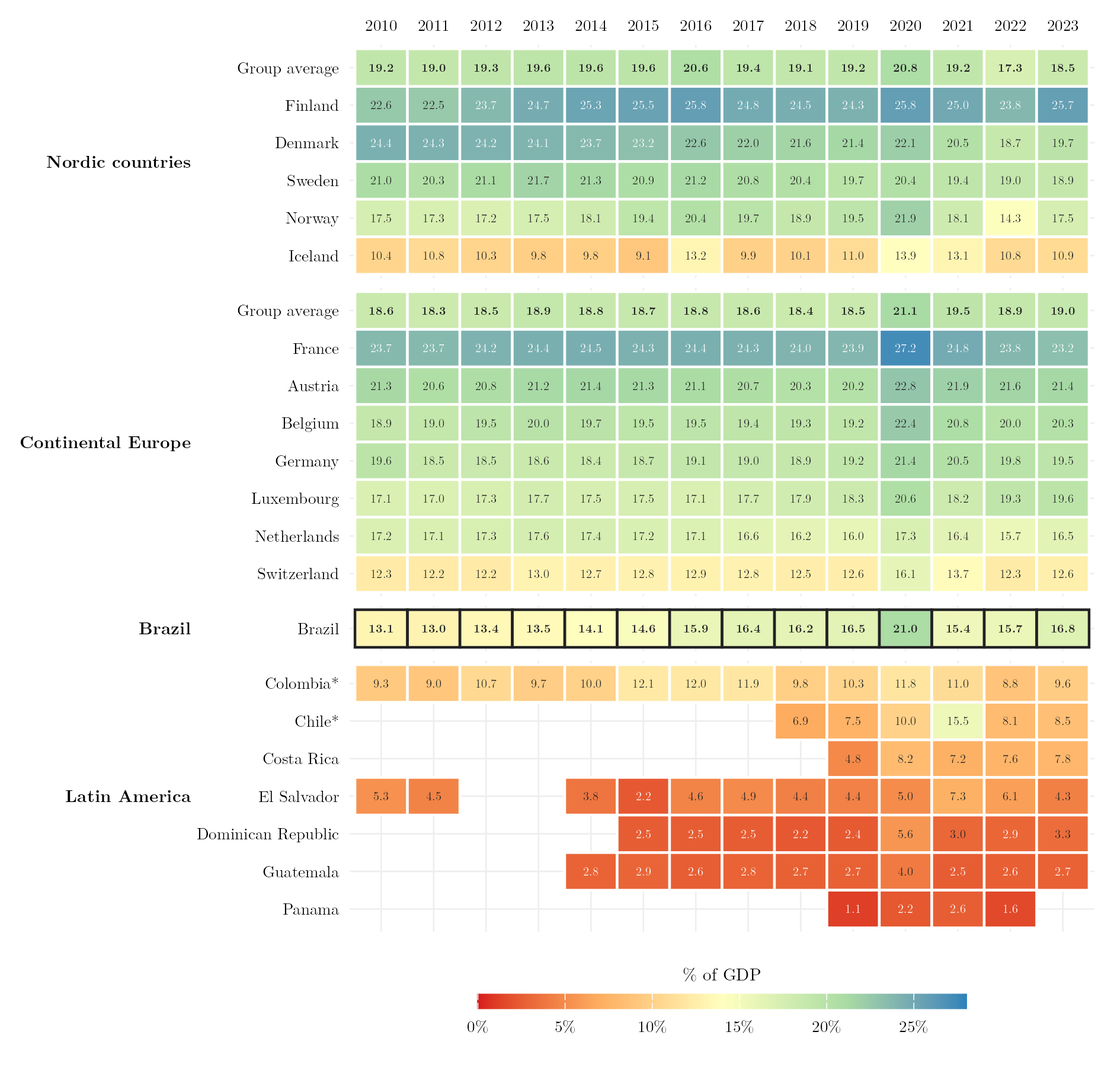
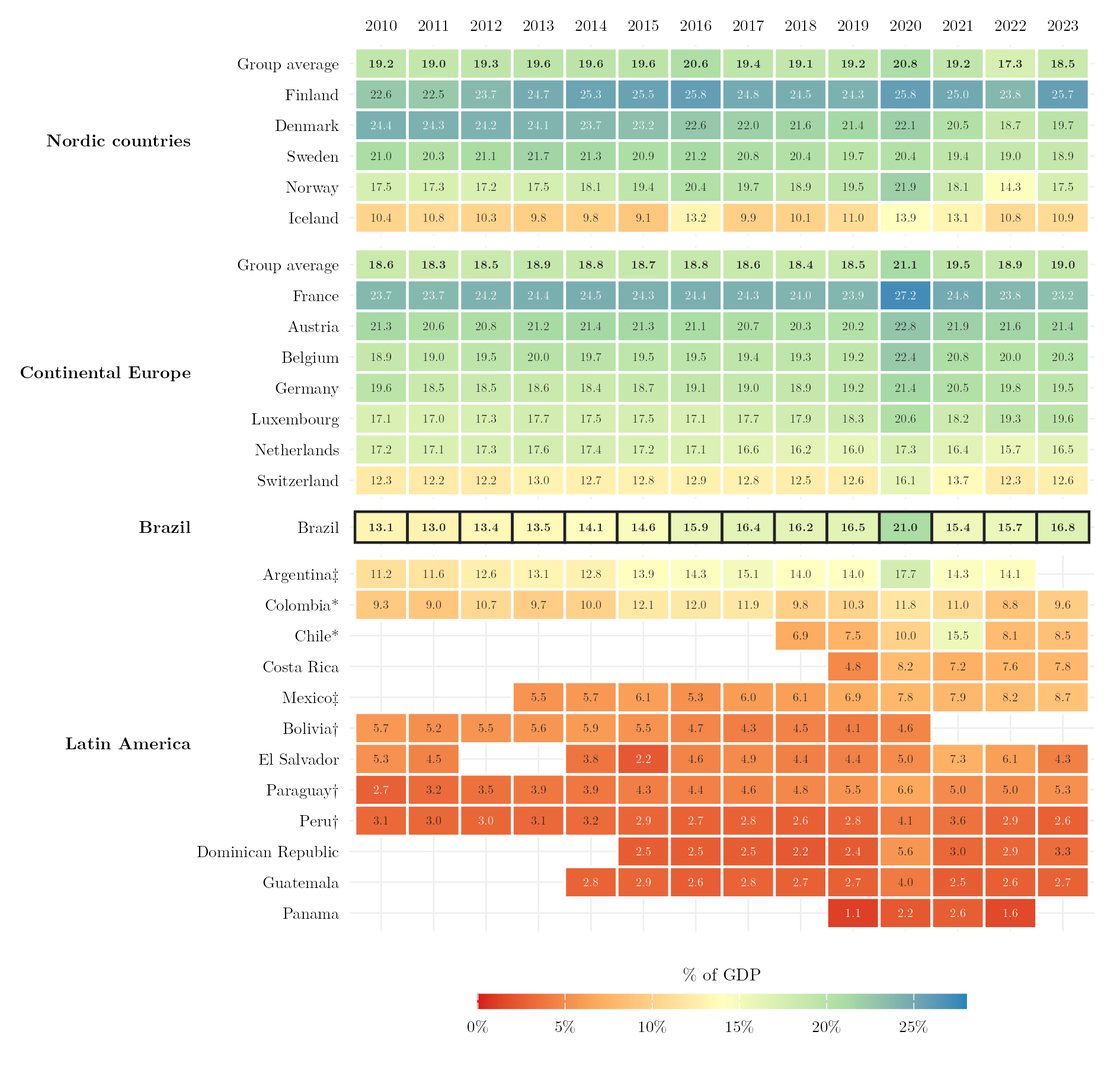
feat(cofog): completa a America Latina com a base de gasto social da CEPAL
Paraguai, Bolivia e Peru (governo geral) e Argentina e Mexico (setor
publico nao financeiro) nao tem a funcao 710 do governo geral no FMI nem
na OCDE. A CEPAL tem; o governo geral do Brasil nela coincide com o FMI.
A figura marca cada fonte e cobertura, e o post explica as diferencas.

Agent: Claude Code / Opus 5.5 / desktop

diff --git a/docs/index.html b/docs/index.html
@@ -176,7 +176,7 @@ window.Quarto = {
 <!-- margin-sidebar -->
     <div id="quarto-margin-sidebar" class="sidebar margin-sidebar">
         
-    <h5 class="quarto-listing-category-title">Categories</h5><div class="quarto-listing-category category-default"><div class="category" data-category="">All <span class="quarto-category-count">(43)</span></div><div class="category" data-category="QWNlc3Nv">Acesso <span class="quarto-category-count">(5)</span></div><div class="category" data-category="Q2FtcGFpZ24lMjBmaW5hbmNl">Campaign finance <span class="quarto-category-count">(1)</span></div><div class="category" data-category="Q2Vuc28=">Censo <span class="quarto-category-count">(1)</span></div><div class="category" data-category="Q2Vuc28lMjAyMDIy">Censo 2022 <span class="quarto-category-count">(1)</span></div><div class="category" data-category="Q0VOU1VQ">CENSUP <span class="quarto-category-count">(1)</span></div><div class="category" data-category="Q2Vuc3Vz">Census <span class="quarto-category-count">(1)</span></div><div class="category" data-category="Q29iZXJ0dXJhJTIwZGUlMjBGb250ZXM=">Cobertura de Fontes <span class="quarto-category-count">(1)</span></div><div class="category" data-category="Q09GT0c=">COFOG <span class="quarto-category-count">(1)</span></div><div class="category" data-category="Q29tcG9zaSVDMyVBNyVDMyVBM28lMjBwb3IlMjBEZWNpbA==">Composição por Decil <span class="quarto-category-count">(4)</span></div><div class="category" data-category="Q29uY2x1cyVDMyVBM28=">Conclusão <span class="quarto-category-count">(1)</span></div><div class="category" data-category="Q290YXM=">Cotas <span class="quarto-category-count">(3)</span></div><div class="category" data-category="RGF0YQ==">Data <span class="quarto-category-count">(1)</span></div><div class="category" data-category="RGVzaWd1YWxkYWRl">Desigualdade <span class="quarto-category-count">(4)</span></div><div class="category" data-category="RGlzdHJpYnVpJUMzJUE3JUMzJUEzbw==">Distribuição <span class="quarto-category-count">(2)</span></div><div class="category" data-category="RGlzdHJpYnV0aW9u">Distribution <span class="quarto-category-count">(1)</span></div><div class="category" data-category="RWFE">EaD <span class="quarto-category-count">(3)</span></div><div class="category" data-category="ZWR1Y2FicjI=">educabr2 <span class="quarto-category-count">(7)</span></div><div class="category" data-category="RWxlY3Rpb25z">Elections <span class="quarto-category-count">(2)</span></div><div class="category" data-category="RU5FTQ==">ENEM <span class="quarto-category-count">(7)</span></div><div class="category" data-category="RW5zaW5vJTIwTSVDMyVBOWRpbw==">Ensino Médio <span class="quarto-category-count">(2)</span></div><div class="category" data-category="RW5zaW5vJTIwU3VwZXJpb3I=">Ensino Superior <span class="quarto-category-count">(4)</span></div><div class="category" data-category="RXNjb2xhcmlkYWRl">Escolaridade <span class="quarto-category-count">(1)</span></div><div class="category" data-category="RXhwYW5zJUMzJUEzbyUyMEhpc3QlQzMlQjNyaWNh">Expansão Histórica <span class="quarto-category-count">(1)</span></div><div class="category" data-category="RklFUw==">FIES <span class="quarto-category-count">(3)</span></div><div class="category" data-category="Rm9udGVzJTIwZGUlMjBEYWRv">Fontes de Dado <span class="quarto-category-count">(1)</span></div><div class="category" data-category="R2FzdG8lMjBQJUMzJUJBYmxpY28=">Gasto Público <span class="quarto-category-count">(1)</span></div><div class="category" data-category="R2luaQ==">Gini <span class="quarto-category-count">(1)</span></div><div class="category" data-category="R292ZXJubw==">Governo <span class="quarto-category-count">(3)</span></div><div class="category" data-category="SGFybW9uaXphdGlvbg==">Harmonization <span class="quarto-category-count">(1)</span></div><div class="category" data-category="SU1G">IMF <span class="quarto-category-count">(1)</span></div><div class="category" data-category="SW5jb21l">Income <span class="quarto-category-count">(1)</span></div><div class="category" data-category="SVBDQQ==">IPCA <span class="quarto-category-count">(3)</span></div><div class="category" data-category="TWFwYXM=">Mapas <span class="quarto-category-count">(1)</span></div><div class="category" data-category="TWF0ciVDMyVBRGN1bGFz">Matrículas <span class="quarto-category-count">(5)</span></div><div class="category" data-category="TWVuc2FsaWRhZGVz">Mensalidades <span class="quarto-category-count">(3)</span></div><div class="category" data-category="TWV0aG9kb2xvZ3k=">Methodology <span class="quarto-category-count">(1)</span></div><div class="category" data-category="TW9kYWxpZGFkZQ==">Modalidade <span class="quarto-category-count">(2)</span></div><div class="category" data-category="T0VDRA==">OECD <span class="quarto-category-count">(1)</span></div><div class="category" data-category="UGFsbWE=">Palma <span class="quarto-category-count">(1)</span></div><div class="category" data-category="UE5BRA==">PNAD <span class="quarto-category-count">(1)</span></div><div class="category" data-category="UE5BRCUyRlBOQURD">PNAD/PNADC <span class="quarto-category-count">(21)</span></div><div class="category" data-category="UG9sJUMzJUFEdGljYXMlMjBQJUMzJUJBYmxpY2Fz">Políticas Públicas <span class="quarto-category-count">(2)</span></div><div class="category" data-category="UG9wdWxhJUMzJUE3JUMzJUEzbw==">População <span class="quarto-category-count">(1)</span></div><div class="category" data-category="UHJvZ3Jlc3MlQzMlQTNvJTIwRXNjb2xhcg==">Progressão Escolar <span class="quarto-category-count">(1)</span></div><div class="category" data-category="UHJvVW5p">ProUni <span class="quarto-category-count">(3)</span></div><div class="category" data-category="UmVkZSUyMFAlQzMlQkFibGljYSUyRlByaXZhZGE=">Rede Pública/Privada <span class="quarto-category-count">(2)</span></div><div class="category" data-category="UmVncmVzc2l2aWRhZGU=">Regressividade <span class="quarto-category-count">(1)</span></div><div class="category" data-category="UmVuZGE=">Renda <span class="quarto-category-count">(13)</span></div><div class="category" data-category="UmVwbGljYXRpb24=">Replication <span class="quarto-category-count">(2)</span></div><div class="category" data-category="UnVyYWw=">Rural <span class="quarto-category-count">(1)</span></div><div class="category" data-category="U2FsJUMzJUExcmlvJTIwTSVDMyVBRG5pbW8=">Salário Mínimo <span class="quarto-category-count">(1)</span></div><div class="category" data-category="U0VEQVAlMkI=">SEDAP+ <span class="quarto-category-count">(8)</span></div><div class="category" data-category="UyVDMyVBOXJpZSUyMEhpc3QlQzMlQjNyaWNh">Série Histórica <span class="quarto-category-count">(2)</span></div><div class="category" data-category="U2V4bw==">Sexo <span class="quarto-category-count">(1)</span></div><div class="category" data-category="U0lEUkE=">SIDRA <span class="quarto-category-count">(2)</span></div><div class="category" data-category="U29jaWFsJTIwcHJvdGVjdGlvbg==">Social protection <span class="quarto-category-count">(1)</span></div><div class="category" data-category="VFNF">TSE <span class="quarto-category-count">(1)</span></div><div class="category" data-category="VHVybm8=">Turno <span class="quarto-category-count">(1)</span></div><div class="category" data-category="VmlhJTIwZGUlMjBBY2Vzc28=">Via de Acesso <span class="quarto-category-count">(1)</span></div><div class="category" data-category="V2Fnc3RhZmY=">Wagstaff <span class="quarto-category-count">(3)</span></div><div class="category" data-category="V2VsZmFyZSUyMHN0YXRl">Welfare state <span class="quarto-category-count">(1)</span></div></div></div>
+    <h5 class="quarto-listing-category-title">Categories</h5><div class="quarto-listing-category category-default"><div class="category" data-category="">All <span class="quarto-category-count">(43)</span></div><div class="category" data-category="QWNlc3Nv">Acesso <span class="quarto-category-count">(5)</span></div><div class="category" data-category="Q2FtcGFpZ24lMjBmaW5hbmNl">Campaign finance <span class="quarto-category-count">(1)</span></div><div class="category" data-category="Q2Vuc28=">Censo <span class="quarto-category-count">(1)</span></div><div class="category" data-category="Q2Vuc28lMjAyMDIy">Censo 2022 <span class="quarto-category-count">(1)</span></div><div class="category" data-category="Q0VOU1VQ">CENSUP <span class="quarto-category-count">(1)</span></div><div class="category" data-category="Q2Vuc3Vz">Census <span class="quarto-category-count">(1)</span></div><div class="category" data-category="Q29iZXJ0dXJhJTIwZGUlMjBGb250ZXM=">Cobertura de Fontes <span class="quarto-category-count">(1)</span></div><div class="category" data-category="Q09GT0c=">COFOG <span class="quarto-category-count">(1)</span></div><div class="category" data-category="Q29tcG9zaSVDMyVBNyVDMyVBM28lMjBwb3IlMjBEZWNpbA==">Composição por Decil <span class="quarto-category-count">(4)</span></div><div class="category" data-category="Q29uY2x1cyVDMyVBM28=">Conclusão <span class="quarto-category-count">(1)</span></div><div class="category" data-category="Q290YXM=">Cotas <span class="quarto-category-count">(3)</span></div><div class="category" data-category="RGF0YQ==">Data <span class="quarto-category-count">(1)</span></div><div class="category" data-category="RGVzaWd1YWxkYWRl">Desigualdade <span class="quarto-category-count">(4)</span></div><div class="category" data-category="RGlzdHJpYnVpJUMzJUE3JUMzJUEzbw==">Distribuição <span class="quarto-category-count">(2)</span></div><div class="category" data-category="RGlzdHJpYnV0aW9u">Distribution <span class="quarto-category-count">(1)</span></div><div class="category" data-category="RWFE">EaD <span class="quarto-category-count">(3)</span></div><div class="category" data-category="RUNMQUM=">ECLAC <span class="quarto-category-count">(1)</span></div><div class="category" data-category="ZWR1Y2FicjI=">educabr2 <span class="quarto-category-count">(7)</span></div><div class="category" data-category="RWxlY3Rpb25z">Elections <span class="quarto-category-count">(2)</span></div><div class="category" data-category="RU5FTQ==">ENEM <span class="quarto-category-count">(7)</span></div><div class="category" data-category="RW5zaW5vJTIwTSVDMyVBOWRpbw==">Ensino Médio <span class="quarto-category-count">(2)</span></div><div class="category" data-category="RW5zaW5vJTIwU3VwZXJpb3I=">Ensino Superior <span class="quarto-category-count">(4)</span></div><div class="category" data-category="RXNjb2xhcmlkYWRl">Escolaridade <span class="quarto-category-count">(1)</span></div><div class="category" data-category="RXhwYW5zJUMzJUEzbyUyMEhpc3QlQzMlQjNyaWNh">Expansão Histórica <span class="quarto-category-count">(1)</span></div><div class="category" data-category="RklFUw==">FIES <span class="quarto-category-count">(3)</span></div><div class="category" data-category="Rm9udGVzJTIwZGUlMjBEYWRv">Fontes de Dado <span class="quarto-category-count">(1)</span></div><div class="category" data-category="R2FzdG8lMjBQJUMzJUJBYmxpY28=">Gasto Público <span class="quarto-category-count">(1)</span></div><div class="category" data-category="R2luaQ==">Gini <span class="quarto-category-count">(1)</span></div><div class="category" data-category="R292ZXJubw==">Governo <span class="quarto-category-count">(3)</span></div><div class="category" data-category="SGFybW9uaXphdGlvbg==">Harmonization <span class="quarto-category-count">(1)</span></div><div class="category" data-category="SU1G">IMF <span class="quarto-category-count">(1)</span></div><div class="category" data-category="SW5jb21l">Income <span class="quarto-category-count">(1)</span></div><div class="category" data-category="SVBDQQ==">IPCA <span class="quarto-category-count">(3)</span></div><div class="category" data-category="TWFwYXM=">Mapas <span class="quarto-category-count">(1)</span></div><div class="category" data-category="TWF0ciVDMyVBRGN1bGFz">Matrículas <span class="quarto-category-count">(5)</span></div><div class="category" data-category="TWVuc2FsaWRhZGVz">Mensalidades <span class="quarto-category-count">(3)</span></div><div class="category" data-category="TWV0aG9kb2xvZ3k=">Methodology <span class="quarto-category-count">(1)</span></div><div class="category" data-category="TW9kYWxpZGFkZQ==">Modalidade <span class="quarto-category-count">(2)</span></div><div class="category" data-category="T0VDRA==">OECD <span class="quarto-category-count">(1)</span></div><div class="category" data-category="UGFsbWE=">Palma <span class="quarto-category-count">(1)</span></div><div class="category" data-category="UE5BRA==">PNAD <span class="quarto-category-count">(1)</span></div><div class="category" data-category="UE5BRCUyRlBOQURD">PNAD/PNADC <span class="quarto-category-count">(21)</span></div><div class="category" data-category="UG9sJUMzJUFEdGljYXMlMjBQJUMzJUJBYmxpY2Fz">Políticas Públicas <span class="quarto-category-count">(2)</span></div><div class="category" data-category="UG9wdWxhJUMzJUE3JUMzJUEzbw==">População <span class="quarto-category-count">(1)</span></div><div class="category" data-category="UHJvZ3Jlc3MlQzMlQTNvJTIwRXNjb2xhcg==">Progressão Escolar <span class="quarto-category-count">(1)</span></div><div class="category" data-category="UHJvVW5p">ProUni <span class="quarto-category-count">(3)</span></div><div class="category" data-category="UmVkZSUyMFAlQzMlQkFibGljYSUyRlByaXZhZGE=">Rede Pública/Privada <span class="quarto-category-count">(2)</span></div><div class="category" data-category="UmVncmVzc2l2aWRhZGU=">Regressividade <span class="quarto-category-count">(1)</span></div><div class="category" data-category="UmVuZGE=">Renda <span class="quarto-category-count">(13)</span></div><div class="category" data-category="UmVwbGljYXRpb24=">Replication <span class="quarto-category-count">(2)</span></div><div class="category" data-category="UnVyYWw=">Rural <span class="quarto-category-count">(1)</span></div><div class="category" data-category="U2FsJUMzJUExcmlvJTIwTSVDMyVBRG5pbW8=">Salário Mínimo <span class="quarto-category-count">(1)</span></div><div class="category" data-category="U0VEQVAlMkI=">SEDAP+ <span class="quarto-category-count">(8)</span></div><div class="category" data-category="UyVDMyVBOXJpZSUyMEhpc3QlQzMlQjNyaWNh">Série Histórica <span class="quarto-category-count">(2)</span></div><div class="category" data-category="U2V4bw==">Sexo <span class="quarto-category-count">(1)</span></div><div class="category" data-category="U0lEUkE=">SIDRA <span class="quarto-category-count">(2)</span></div><div class="category" data-category="U29jaWFsJTIwcHJvdGVjdGlvbg==">Social protection <span class="quarto-category-count">(1)</span></div><div class="category" data-category="VFNF">TSE <span class="quarto-category-count">(1)</span></div><div class="category" data-category="VHVybm8=">Turno <span class="quarto-category-count">(1)</span></div><div class="category" data-category="VmlhJTIwZGUlMjBBY2Vzc28=">Via de Acesso <span class="quarto-category-count">(1)</span></div><div class="category" data-category="V2Fnc3RhZmY=">Wagstaff <span class="quarto-category-count">(3)</span></div><div class="category" data-category="V2VsZmFyZSUyMHN0YXRl">Welfare state <span class="quarto-category-count">(1)</span></div></div></div>
 <!-- main -->
 <main class="content column-page-left" id="quarto-document-content">
 
@@ -254,7 +254,7 @@ Categories
 </thead>
 <tbody class="list">
 
[2 lines of base64/hex data omitted]
 <td>
 <span class="listing-image"><img loading="lazy" src="./posts/protecao-social-brasil-europa-america-latina/thumbnail.png" style="height: 40px;"></span>
 </td>
@@ -265,7 +265,7 @@ Categories
 <span class="listing-description">General government spending on social protection as a share of GDP, 2010–2023: Brazil, the Nordic countries, continental Europe and Latin America.</span>
 </td>
 <td>
-<span class="listing-categories">COFOG, IMF, OECD, Social protection, Welfare state</span>
+<span class="listing-categories">COFOG, IMF, OECD, ECLAC, Social protection, Welfare state</span>
 </td>
 <td>
 <span class="listing-date">Nov 12, 2026</span>

diff --git a/docs/pt/index-pt.html b/docs/pt/index-pt.html
@@ -176,7 +176,7 @@ window.Quarto = {
 <!-- margin-sidebar -->
     <div id="quarto-margin-sidebar" class="sidebar margin-sidebar">
         
-    <h5 class="quarto-listing-category-title">Categorias</h5><div class="quarto-listing-category category-default"><div class="category" data-category="">Tudo <span class="quarto-category-count">(43)</span></div><div class="category" data-category="QWNlc3Nv">Acesso <span class="quarto-category-count">(5)</span></div><div class="category" data-category="Q2Vuc28=">Censo <span class="quarto-category-count">(2)</span></div><div class="category" data-category="Q2Vuc28lMjAyMDIy">Censo 2022 <span class="quarto-category-count">(1)</span></div><div class="category" data-category="Q0VOU1VQ">CENSUP <span class="quarto-category-count">(1)</span></div><div class="category" data-category="Q29iZXJ0dXJhJTIwZGUlMjBGb250ZXM=">Cobertura de Fontes <span class="quarto-category-count">(1)</span></div><div class="category" data-category="Q09GT0c=">COFOG <span class="quarto-category-count">(1)</span></div><div class="category" data-category="Q29tcG9zaSVDMyVBNyVDMyVBM28lMjBwb3IlMjBEZWNpbA==">Composição por Decil <span class="quarto-category-count">(4)</span></div><div class="category" data-category="Q29uY2x1cyVDMyVBM28=">Conclusão <span class="quarto-category-count">(1)</span></div><div class="category" data-category="Q290YXM=">Cotas <span class="quarto-category-count">(3)</span></div><div class="category" data-category="RGFkb3M=">Dados <span class="quarto-category-count">(1)</span></div><div class="category" data-category="RGVzaWd1YWxkYWRl">Desigualdade <span class="quarto-category-count">(4)</span></div><div class="category" data-category="RGlzdHJpYnVpJUMzJUE3JUMzJUEzbw==">Distribuição <span class="quarto-category-count">(3)</span></div><div class="category" data-category="RWFE">EaD <span class="quarto-category-count">(3)</span></div><div class="category" data-category="ZWR1Y2FicjI=">educabr2 <span class="quarto-category-count">(7)</span></div><div class="category" data-category="RWxlaSVDMyVBNyVDMyVCNWVz">Eleições <span class="quarto-category-count">(2)</span></div><div class="category" data-category="RU5FTQ==">ENEM <span class="quarto-category-count">(7)</span></div><div class="category" data-category="RW5zaW5vJTIwTSVDMyVBOWRpbw==">Ensino Médio <span class="quarto-category-count">(2)</span></div><div class="category" data-category="RW5zaW5vJTIwU3VwZXJpb3I=">Ensino Superior <span class="quarto-category-count">(4)</span></div><div class="category" data-category="RXNjb2xhcmlkYWRl">Escolaridade <span class="quarto-category-count">(1)</span></div><div class="category" data-category="RXN0YWRvJTIwZGUlMjBiZW0tZXN0YXI=">Estado de bem-estar <span class="quarto-category-count">(1)</span></div><div class="category" data-category="RXhwYW5zJUMzJUEzbyUyMEhpc3QlQzMlQjNyaWNh">Expansão Histórica <span class="quarto-category-count">(1)</span></div><div class="category" data-category="RklFUw==">FIES <span class="quarto-category-count">(3)</span></div><div class="category" data-category="RmluYW5jaWFtZW50byUyMGRlJTIwY2FtcGFuaGE=">Financiamento de campanha <span class="quarto-category-count">(1)</span></div><div class="category" data-category="Rk1J">FMI <span class="quarto-category-count">(1)</span></div><div class="category" data-category="Rm9udGVzJTIwZGUlMjBEYWRv">Fontes de Dado <span class="quarto-category-count">(1)</span></div><div class="category" data-category="R2FzdG8lMjBQJUMzJUJBYmxpY28=">Gasto Público <span class="quarto-category-count">(1)</span></div><div class="category" data-category="R2luaQ==">Gini <span class="quarto-category-count">(1)</span></div><div class="category" data-category="R292ZXJubw==">Governo <span class="quarto-category-count">(3)</span></div><div class="category" data-category="SGFybW9uaXphJUMzJUE3JUMzJUEzbw==">Harmonização <span class="quarto-category-count">(1)</span></div><div class="category" data-category="SVBDQQ==">IPCA <span class="quarto-category-count">(3)</span></div><div class="category" data-category="TWFwYXM=">Mapas <span class="quarto-category-count">(1)</span></div><div class="category" data-category="TWF0ciVDMyVBRGN1bGFz">Matrículas <span class="quarto-category-count">(5)</span></div><div class="category" data-category="TWVuc2FsaWRhZGVz">Mensalidades <span class="quarto-category-count">(3)</span></div><div class="category" data-category="TWV0b2RvbG9naWE=">Metodologia <span class="quarto-category-count">(1)</span></div><div class="category" data-category="TW9kYWxpZGFkZQ==">Modalidade <span class="quarto-category-count">(2)</span></div><div class="category" data-category="T0NERQ==">OCDE <span class="quarto-category-count">(1)</span></div><div class="category" data-category="UGFsbWE=">Palma <span class="quarto-category-count">(1)</span></div><div class="category" data-category="UE5BRA==">PNAD <span class="quarto-category-count">(1)</span></div><div class="category" data-category="UE5BRCUyRlBOQURD">PNAD/PNADC <span class="quarto-category-count">(21)</span></div><div class="category" data-category="UG9sJUMzJUFEdGljYXMlMjBQJUMzJUJBYmxpY2Fz">Políticas Públicas <span class="quarto-category-count">(2)</span></div><div class="category" data-category="UG9wdWxhJUMzJUE3JUMzJUEzbw==">População <span class="quarto-category-count">(1)</span></div><div class="category" data-category="UHJvZ3Jlc3MlQzMlQTNvJTIwRXNjb2xhcg==">Progressão Escolar <span class="quarto-category-count">(1)</span></div><div class="category" data-category="UHJvdGUlQzMlQTclQzMlQTNvJTIwc29jaWFs">Proteção social <span class="quarto-category-count">(1)</span></div><div class="category" data-category="UHJvVW5p">ProUni <span class="quarto-category-count">(3)</span></div><div class="category" data-category="UmVkZSUyMFAlQzMlQkFibGljYSUyRlByaXZhZGE=">Rede Pública/Privada <span class="quarto-category-count">(2)</span></div><div class="category" data-category="UmVncmVzc2l2aWRhZGU=">Regressividade <span class="quarto-category-count">(1)</span></div><div class="category" data-category="UmVuZGE=">Renda <span class="quarto-category-count">(14)</span></div><div class="category" data-category="UmVwbGljYSVDMyVBNyVDMyVBM28=">Replicação <span class="quarto-category-count">(1)</span></div><div class="category" data-category="UmVwbGljYXRpb24=">Replication <span class="quarto-category-count">(1)</span></div><div class="category" data-category="UnVyYWw=">Rural <span class="quarto-category-count">(1)</span></div><div class="category" data-category="U2FsJUMzJUExcmlvJTIwTSVDMyVBRG5pbW8=">Salário Mínimo <span class="quarto-category-count">(1)</span></div><div class="category" data-category="U0VEQVAlMkI=">SEDAP+ <span class="quarto-category-count">(8)</span></div><div class="category" data-category="UyVDMyVBOXJpZSUyMEhpc3QlQzMlQjNyaWNh">Série Histórica <span class="quarto-category-count">(2)</span></div><div class="category" data-category="U2V4bw==">Sexo <span class="quarto-category-count">(1)</span></div><div class="category" data-category="U0lEUkE=">SIDRA <span class="quarto-category-count">(2)</span></div><div class="category" data-category="VFNF">TSE <span class="quarto-category-count">(1)</span></div><div class="category" data-category="VHVybm8=">Turno <span class="quarto-category-count">(1)</span></div><div class="category" data-category="VmlhJTIwZGUlMjBBY2Vzc28=">Via de Acesso <span class="quarto-category-count">(1)</span></div><div class="category" data-category="V2Fnc3RhZmY=">Wagstaff <span class="quarto-category-count">(3)</span></div></div></div>
+    <h5 class="quarto-listing-category-title">Categorias</h5><div class="quarto-listing-category category-default"><div class="category" data-category="">Tudo <span class="quarto-category-count">(43)</span></div><div class="category" data-category="QWNlc3Nv">Acesso <span class="quarto-category-count">(5)</span></div><div class="category" data-category="Q2Vuc28=">Censo <span class="quarto-category-count">(2)</span></div><div class="category" data-category="Q2Vuc28lMjAyMDIy">Censo 2022 <span class="quarto-category-count">(1)</span></div><div class="category" data-category="Q0VOU1VQ">CENSUP <span class="quarto-category-count">(1)</span></div><div class="category" data-category="Q0VQQUw=">CEPAL <span class="quarto-category-count">(1)</span></div><div class="category" data-category="Q29iZXJ0dXJhJTIwZGUlMjBGb250ZXM=">Cobertura de Fontes <span class="quarto-category-count">(1)</span></div><div class="category" data-category="Q09GT0c=">COFOG <span class="quarto-category-count">(1)</span></div><div class="category" data-category="Q29tcG9zaSVDMyVBNyVDMyVBM28lMjBwb3IlMjBEZWNpbA==">Composição por Decil <span class="quarto-category-count">(4)</span></div><div class="category" data-category="Q29uY2x1cyVDMyVBM28=">Conclusão <span class="quarto-category-count">(1)</span></div><div class="category" data-category="Q290YXM=">Cotas <span class="quarto-category-count">(3)</span></div><div class="category" data-category="RGFkb3M=">Dados <span class="quarto-category-count">(1)</span></div><div class="category" data-category="RGVzaWd1YWxkYWRl">Desigualdade <span class="quarto-category-count">(4)</span></div><div class="category" data-category="RGlzdHJpYnVpJUMzJUE3JUMzJUEzbw==">Distribuição <span class="quarto-category-count">(3)</span></div><div class="category" data-category="RWFE">EaD <span class="quarto-category-count">(3)</span></div><div class="category" data-category="ZWR1Y2FicjI=">educabr2 <span class="quarto-category-count">(7)</span></div><div class="category" data-category="RWxlaSVDMyVBNyVDMyVCNWVz">Eleições <span class="quarto-category-count">(2)</span></div><div class="category" data-category="RU5FTQ==">ENEM <span class="quarto-category-count">(7)</span></div><div class="category" data-category="RW5zaW5vJTIwTSVDMyVBOWRpbw==">Ensino Médio <span class="quarto-category-count">(2)</span></div><div class="category" data-category="RW5zaW5vJTIwU3VwZXJpb3I=">Ensino Superior <span class="quarto-category-count">(4)</span></div><div class="category" data-category="RXNjb2xhcmlkYWRl">Escolaridade <span class="quarto-category-count">(1)</span></div><div class="category" data-category="RXN0YWRvJTIwZGUlMjBiZW0tZXN0YXI=">Estado de bem-estar <span class="quarto-category-count">(1)</span></div><div class="category" data-category="RXhwYW5zJUMzJUEzbyUyMEhpc3QlQzMlQjNyaWNh">Expansão Histórica <span class="quarto-category-count">(1)</span></div><div class="category" data-category="RklFUw==">FIES <span class="quarto-category-count">(3)</span></div><div class="category" data-category="RmluYW5jaWFtZW50byUyMGRlJTIwY2FtcGFuaGE=">Financiamento de campanha <span class="quarto-category-count">(1)</span></div><div class="category" data-category="Rk1J">FMI <span class="quarto-category-count">(1)</span></div><div class="category" data-category="Rm9udGVzJTIwZGUlMjBEYWRv">Fontes de Dado <span class="quarto-category-count">(1)</span></div><div class="category" data-category="R2FzdG8lMjBQJUMzJUJBYmxpY28=">Gasto Público <span class="quarto-category-count">(1)</span></div><div class="category" data-category="R2luaQ==">Gini <span class="quarto-category-count">(1)</span></div><div class="category" data-category="R292ZXJubw==">Governo <span class="quarto-category-count">(3)</span></div><div class="category" data-category="SGFybW9uaXphJUMzJUE3JUMzJUEzbw==">Harmonização <span class="quarto-category-count">(1)</span></div><div class="category" data-category="SVBDQQ==">IPCA <span class="quarto-category-count">(3)</span></div><div class="category" data-category="TWFwYXM=">Mapas <span class="quarto-category-count">(1)</span></div><div class="category" data-category="TWF0ciVDMyVBRGN1bGFz">Matrículas <span class="quarto-category-count">(5)</span></div><div class="category" data-category="TWVuc2FsaWRhZGVz">Mensalidades <span class="quarto-category-count">(3)</span></div><div class="category" data-category="TWV0b2RvbG9naWE=">Metodologia <span class="quarto-category-count">(1)</span></div><div class="category" data-category="TW9kYWxpZGFkZQ==">Modalidade <span class="quarto-category-count">(2)</span></div><div class="category" data-category="T0NERQ==">OCDE <span class="quarto-category-count">(1)</span></div><div class="category" data-category="UGFsbWE=">Palma <span class="quarto-category-count">(1)</span></div><div class="category" data-category="UE5BRA==">PNAD <span class="quarto-category-count">(1)</span></div><div class="category" data-category="UE5BRCUyRlBOQURD">PNAD/PNADC <span class="quarto-category-count">(21)</span></div><div class="category" data-category="UG9sJUMzJUFEdGljYXMlMjBQJUMzJUJBYmxpY2Fz">Políticas Públicas <span class="quarto-category-count">(2)</span></div><div class="category" data-category="UG9wdWxhJUMzJUE3JUMzJUEzbw==">População <span class="quarto-category-count">(1)</span></div><div class="category" data-category="UHJvZ3Jlc3MlQzMlQTNvJTIwRXNjb2xhcg==">Progressão Escolar <span class="quarto-category-count">(1)</span></div><div class="category" data-category="UHJvdGUlQzMlQTclQzMlQTNvJTIwc29jaWFs">Proteção social <span class="quarto-category-count">(1)</span></div><div class="category" data-category="UHJvVW5p">ProUni <span class="quarto-category-count">(3)</span></div><div class="category" data-category="UmVkZSUyMFAlQzMlQkFibGljYSUyRlByaXZhZGE=">Rede Pública/Privada <span class="quarto-category-count">(2)</span></div><div class="category" data-category="UmVncmVzc2l2aWRhZGU=">Regressividade <span class="quarto-category-count">(1)</span></div><div class="category" data-category="UmVuZGE=">Renda <span class="quarto-category-count">(14)</span></div><div class="category" data-category="UmVwbGljYSVDMyVBNyVDMyVBM28=">Replicação <span class="quarto-category-count">(1)</span></div><div class="category" data-category="UmVwbGljYXRpb24=">Replication <span class="quarto-category-count">(1)</span></div><div class="category" data-category="UnVyYWw=">Rural <span class="quarto-category-count">(1)</span></div><div class="category" data-category="U2FsJUMzJUExcmlvJTIwTSVDMyVBRG5pbW8=">Salário Mínimo <span class="quarto-category-count">(1)</span></div><div class="category" data-category="U0VEQVAlMkI=">SEDAP+ <span class="quarto-category-count">(8)</span></div><div class="category" data-category="UyVDMyVBOXJpZSUyMEhpc3QlQzMlQjNyaWNh">Série Histórica <span class="quarto-category-count">(2)</span></div><div class="category" data-category="U2V4bw==">Sexo <span class="quarto-category-count">(1)</span></div><div class="category" data-category="U0lEUkE=">SIDRA <span class="quarto-category-count">(2)</span></div><div class="category" data-category="VFNF">TSE <span class="quarto-category-count">(1)</span></div><div class="category" data-category="VHVybm8=">Turno <span class="quarto-category-count">(1)</span></div><div class="category" data-category="VmlhJTIwZGUlMjBBY2Vzc28=">Via de Acesso <span class="quarto-category-count">(1)</span></div><div class="category" data-category="V2Fnc3RhZmY=">Wagstaff <span class="quarto-category-count">(3)</span></div></div></div>
 <!-- main -->
 <main class="content column-page-left" id="quarto-document-content">
 
@@ -254,7 +254,7 @@ Categorias
 </thead>
 <tbody class="list">
 
[2 lines of base64/hex data omitted]
 <td>
 <span class="listing-image"><img loading="lazy" src="./posts/protecao-social-brasil-europa-america-latina/thumbnail.png" style="height: 40px;"></span>
 </td>
@@ -265,7 +265,7 @@ Categorias
 <span class="listing-description">Gasto do governo geral em proteção social em % do PIB, 2010–2023: Brasil, países nórdicos, Europa continental e América Latina.</span>
 </td>
 <td>
-<span class="listing-categories">COFOG, FMI, OCDE, Proteção social, Estado de bem-estar</span>
+<span class="listing-categories">COFOG, FMI, OCDE, CEPAL, Proteção social, Estado de bem-estar</span>
 </td>
 <td>
 <span class="listing-date">12 de nov. de 2026</span>

diff --git a/docs/pt/posts-pt/protecao-social-brasil-europa-america-latina/index.html b/docs/pt/posts-pt/protecao-social-brasil-europa-america-latina/index.html
@@ -160,6 +160,7 @@ pre > code.sourceCode > span > a:first-child::before { text-decoration: underlin
     <div class="quarto-category">COFOG</div>
     <div class="quarto-category">FMI</div>
     <div class="quarto-category">OCDE</div>
+    <div class="quarto-category">CEPAL</div>
     <div class="quarto-category">Proteção social</div>
     <div class="quarto-category">Estado de bem-estar</div>
   </div>
@@ -193,15 +194,15 @@ pre > code.sourceCode > span > a:first-child::before { text-decoration: underlin
 <p><img src="../../posts/protecao-social-brasil-europa-america-latina/fig-pt.png" class="img-fluid"></p>
 <section id="visão-geral" class="level2">
 <h2 class="anchored" data-anchor-id="visão-geral">Visão Geral</h2>
-<p>Esta figura compara o gasto do governo geral brasileiro em proteção social com o dos países nórdicos, da Europa continental e dos países latino-americanos com dados disponíveis, ano a ano, de 2010 a 2023. O Brasil passou de 13,1% do PIB em 2010 para 16,8% em 2023, com pico de 21,0% em 2020, primeiro ano da pandemia. Em 2023, a média nórdica foi de 18,5% e a da Europa continental, de 19,0%. Entre os latino-americanos com dados, a Colômbia gastou 9,6% e o Chile, 8,5% em 2023.</p>
+<p>Esta figura compara o gasto do governo geral brasileiro em proteção social com o dos países nórdicos, da Europa continental e dos países latino-americanos com dados disponíveis, ano a ano, de 2010 a 2023. O Brasil passou de 13,1% do PIB em 2010 para 16,8% em 2023, com pico de 21,0% em 2020, primeiro ano da pandemia. Em 2023, a média nórdica foi de 18,5% e a da Europa continental, de 19,0%. Entre os latino-americanos, a Colômbia gastou 9,6%, o México 8,7% e o Chile 8,5% em 2023, e a Argentina, 14,1% em 2022.</p>
 </section>
 <section id="metodologia" class="level2">
 <h2 class="anchored" data-anchor-id="metodologia">Metodologia</h2>
 <p><strong>A função.</strong> Proteção social é a divisão 710 da Classificação das Funções de Governo (COFOG). Ela reúne doença e invalidez, velhice, pensão por morte, família e crianças, desemprego, habitação e exclusão social. No Brasil, inclui, portanto, tanto a previdência (RGPS e regimes próprios dos servidores) quanto os programas de assistência social.</p>
-<p><strong>Cobertura de governo.</strong> Todos os valores se referem ao governo geral (setor S13: governos central, estaduais e municipais e fundos de seguridade social), como proporção do PIB nominal.</p>
-<p><strong>Fontes.</strong> A fonte principal são as Government Finance Statistics do FMI (dataflow <code>IMF.STA:GFS_COFOG</code>, transformação <code>POGDP_PT</code>). Chile e Colômbia não têm a série do governo geral para essa função nos dados do FMI; os valores vêm das contas nacionais da OCDE: Table 11 (<code>DSD_NASEC10@DF_TABLE11</code>, despesa total na função GF10, em moeda nacional) dividida pelo PIB nominal da Table 1 (<code>DSD_NAMAIN10@DF_TABLE1_EXPENDITURE</code>). Esses dois países levam asterisco. Como conferência, a mesma conta da OCDE para a França coincide com o valor do FMI em todos os anos de 2010 a 2023.</p>
+<p><strong>Cobertura de governo.</strong> Os valores se referem ao governo geral (setor S13: governos central, estaduais e municipais e fundos de seguridade social), como proporção do PIB nominal. As exceções são a Argentina e o México, para os quais só existe o setor público não financeiro, que soma ao governo geral as empresas públicas não financeiras.</p>
+<p><strong>Fontes.</strong> A fonte principal são as Government Finance Statistics do FMI (dataflow <code>IMF.STA:GFS_COFOG</code>, transformação <code>POGDP_PT</code>). Chile e Colômbia não têm a série do governo geral para essa função nos dados do FMI; os valores vêm das contas nacionais da OCDE: Table 11 (<code>DSD_NASEC10@DF_TABLE11</code>, despesa total na função GF10, em moeda nacional) dividida pelo PIB nominal da Table 1 (<code>DSD_NAMAIN10@DF_TABLE1_EXPENDITURE</code>). Esses dois países levam asterisco. Como conferência, a mesma conta da OCDE para a França coincide com o valor do FMI em todos os anos de 2010 a 2023. Os países sem o dado no FMI nem na OCDE vêm da base de gasto social da CEPAL (CEPALSTAT, indicador 3127, divisão “Protección social”), compilada a partir dos ministérios da Fazenda de cada país: Paraguai, Bolívia e Peru, com o governo geral (†), e Argentina e México, com o setor público não financeiro (‡). Para o Brasil, o governo geral da CEPAL coincide com o do FMI (13,1% em 2010 e 21,0% em 2020).</p>
 <p><strong>Grupos.</strong> Nórdicos: Dinamarca, Finlândia, Islândia, Noruega e Suécia. Europa continental: Alemanha, Áustria, Bélgica, França, Luxemburgo, Países Baixos e Suíça. Os dois grupos europeus têm dados em todos os anos, e a linha de média é uma média simples. A América Latina não tem linha de média, porque o conjunto de países com dados muda de um ano para outro e a média mudaria de composição junto com ele.</p>
-<p><strong>Limites.</strong> Argentina, Bolívia, Equador, México, Paraguai, Peru e Uruguai não têm a série do governo geral para essa função entre 2010 e 2023 em nenhuma das duas fontes; células vazias indicam anos sem dado. Para a Costa Rica, FMI e OCDE divergem (2019: 4,8% no FMI, 7,8% na OCDE); a figura usa o FMI, como para os demais países. O gasto em proporção do PIB mede o esforço fiscal, e não a cobertura, o valor dos benefícios ou a sua distribuição.</p>
+<p><strong>Limites.</strong> Equador e Uruguai só têm o governo central, na CEPAL, e ficam de fora; células vazias indicam anos sem dado. A CEPAL avisa que nem todos os países usam o classificador COFOG das Nações Unidas e que o registro pode ser de caixa ou de competência, de modo que as séries marcadas com † e ‡ são menos comparáveis que as demais. Para a Costa Rica, FMI e OCDE divergem (2019: 4,8% no FMI, 7,8% na OCDE, 7,7% na CEPAL); a figura usa o FMI, como para os demais países. O gasto em proporção do PIB mede o esforço fiscal, e não a cobertura, o valor dos benefícios ou a sua distribuição.</p>
 </section>
 <section id="como-citar" class="level2">
 <h2 class="anchored" data-anchor-id="como-citar">Como Citar</h2>
@@ -241,14 +242,14 @@ pre > code.sourceCode > span > a:first-child::before { text-decoration: underlin
 <h2 class="anchored" data-anchor-id="pipeline">Pipeline</h2>
 <p>Scripts desta análise:</p>
 <ul>
-<li>Dados de origem: <a href="../../shared-pipeline/cofog/010_COFOG_Protecao_Social.R"><code>shared-pipeline/cofog/010_COFOG_Protecao_Social.R</code></a> — consulta as APIs SDMX do FMI e da OCDE e grava <code>data/protecao_social.csv</code>.</li>
+<li>Dados de origem: <a href="../../shared-pipeline/cofog/010_COFOG_Protecao_Social.R"><code>shared-pipeline/cofog/010_COFOG_Protecao_Social.R</code></a> — consulta as APIs SDMX do FMI e da OCDE e a API do CEPALSTAT e grava <code>data/protecao_social.csv</code>.</li>
 <li>Plotagem: <a href="../../posts/protecao-social-brasil-europa-america-latina/plot.R"><code>plot.R</code></a> — lê <code>data/</code> e grava <code>fig-en.png</code>, <code>fig-pt.png</code> e <code>thumbnail.png</code>.</li>
 </ul>
 </section>
 <section id="reprodutibilidade" class="level2">
 <h2 class="anchored" data-anchor-id="reprodutibilidade">Reprodutibilidade</h2>
 <p><strong>Tier: A</strong></p>
-<p>Este pipeline usa apenas dados públicos das APIs do FMI e da OCDE, sem credencial. O CSV em <code>data/</code> basta para redesenhar a figura.</p>
+<p>Este pipeline usa apenas dados públicos das APIs do FMI, da OCDE e da CEPAL, sem credencial. O CSV em <code>data/</code> basta para redesenhar a figura.</p>
 
 
 </section>

diff --git a/docs/posts/protecao-social-brasil-europa-america-latina/index.html b/docs/posts/protecao-social-brasil-europa-america-latina/index.html
@@ -161,6 +161,7 @@ pre > code.sourceCode > span > a:first-child::before { text-decoration: underlin
     <div class="quarto-category">COFOG</div>
     <div class="quarto-category">IMF</div>
     <div class="quarto-category">OECD</div>
+    <div class="quarto-category">ECLAC</div>
     <div class="quarto-category">Social protection</div>
     <div class="quarto-category">Welfare state</div>
   </div>
@@ -194,15 +195,15 @@ pre > code.sourceCode > span > a:first-child::before { text-decoration: underlin
 <p><img src="fig-en.png" class="img-fluid"></p>
 <section id="overview" class="level2">
 <h2 class="anchored" data-anchor-id="overview">Overview</h2>
-<p>This figure compares Brazil’s general government spending on social protection with the Nordic countries, continental Europe and the Latin American countries with available data, year by year from 2010 to 2023. Brazil went from 13.1% of GDP in 2010 to 16.8% in 2023, with a peak of 21.0% in 2020, the first year of the pandemic. In 2023 the Nordic average was 18.5% and the continental European average 19.0%. Among the Latin American countries with data, Colombia spent 9.6% and Chile 8.5% in 2023.</p>
+<p>This figure compares Brazil’s general government spending on social protection with the Nordic countries, continental Europe and the Latin American countries with available data, year by year from 2010 to 2023. Brazil went from 13.1% of GDP in 2010 to 16.8% in 2023, with a peak of 21.0% in 2020, the first year of the pandemic. In 2023 the Nordic average was 18.5% and the continental European average 19.0%. In Latin America, Colombia spent 9.6%, Mexico 8.7% and Chile 8.5% in 2023, and Argentina 14.1% in 2022.</p>
 </section>
 <section id="methodology" class="level2">
 <h2 class="anchored" data-anchor-id="methodology">Methodology</h2>
 <p><strong>The function.</strong> Social protection is division 710 of the Classification of the Functions of Government (COFOG). It covers sickness and disability, old age, survivors, family and children, unemployment, housing and social exclusion. In Brazil, it therefore includes both contributory pensions (RGPS and civil servants’ regimes) and social assistance programs.</p>
-<p><strong>Coverage of government.</strong> All values refer to general government (sector S13: central, state and local governments and social security funds), as a share of nominal GDP.</p>
-<p><strong>Sources.</strong> The main source is the IMF’s Government Finance Statistics (dataflow <code>IMF.STA:GFS_COFOG</code>, transformation <code>POGDP_PT</code>). Chile and Colombia have no general government series for this function in the IMF data; they come from the OECD national accounts: Table 11 (<code>DSD_NASEC10@DF_TABLE11</code>, total expenditure on function GF10, in national currency) divided by nominal GDP from Table 1 (<code>DSD_NAMAIN10@DF_TABLE1_EXPENDITURE</code>). These two countries carry an asterisk. As a check, the same OECD calculation for France matches the IMF value in every year from 2010 to 2023.</p>
+<p><strong>Coverage of government.</strong> Values refer to general government (sector S13: central, state and local governments and social security funds), as a share of nominal GDP. The exceptions are Argentina and Mexico, for which only the non-financial public sector is available; it adds non-financial public corporations to general government.</p>
+<p><strong>Sources.</strong> The main source is the IMF’s Government Finance Statistics (dataflow <code>IMF.STA:GFS_COFOG</code>, transformation <code>POGDP_PT</code>). Chile and Colombia have no general government series for this function in the IMF data; they come from the OECD national accounts: Table 11 (<code>DSD_NASEC10@DF_TABLE11</code>, total expenditure on function GF10, in national currency) divided by nominal GDP from Table 1 (<code>DSD_NAMAIN10@DF_TABLE1_EXPENDITURE</code>). These two countries carry an asterisk. As a check, the same OECD calculation for France matches the IMF value in every year from 2010 to 2023. Countries with data in neither the IMF nor the OECD come from ECLAC’s social expenditure database (CEPALSTAT, indicator 3127, division “Protección social”), compiled from each country’s finance ministry: Paraguay, Bolivia and Peru for general government (†), and Argentina and Mexico for the non-financial public sector (‡). For Brazil, ECLAC’s general government series matches the IMF (13.1% in 2010 and 21.0% in 2020).</p>
 <p><strong>Groups.</strong> Nordic countries: Denmark, Finland, Iceland, Norway and Sweden. Continental Europe: Austria, Belgium, France, Germany, Luxembourg, the Netherlands and Switzerland. Both European groups have data for every year, and their average row is a simple mean. Latin America has no average row, because the set of countries with data changes from year to year and the average would change composition along with it.</p>
-<p><strong>Limits.</strong> Argentina, Bolivia, Ecuador, Mexico, Paraguay, Peru and Uruguay have no general government series for this function between 2010 and 2023 in either source; blank cells mark missing years. For Costa Rica the IMF and the OECD diverge (2019: 4.8% in the IMF, 7.8% in the OECD); the figure uses the IMF, as for the other countries. Spending as a share of GDP measures fiscal effort, not coverage, benefit adequacy or the distribution of benefits.</p>
+<p><strong>Limits.</strong> Ecuador and Uruguay have only central government data, in ECLAC, and are left out; blank cells mark missing years. ECLAC notes that not every country uses the United Nations COFOG classifier and that recording may be on a cash or accrual basis, so the series marked † and ‡ are less comparable than the others. For Costa Rica the IMF and the OECD diverge (2019: 4.8% in the IMF, 7.8% in the OECD, 7.7% in ECLAC); the figure uses the IMF, as for the other countries. Spending as a share of GDP measures fiscal effort, not coverage, benefit adequacy or the distribution of benefits.</p>
 </section>
 <section id="how-to-cite" class="level2">
 <h2 class="anchored" data-anchor-id="how-to-cite">How to Cite</h2>
@@ -242,14 +243,14 @@ pre > code.sourceCode > span > a:first-child::before { text-decoration: underlin
 <h2 class="anchored" data-anchor-id="pipeline">Pipeline</h2>
 <p>Scripts for this analysis:</p>
 <ul>
-<li>Upstream data: <a href="../../shared-pipeline/cofog/010_COFOG_Protecao_Social.R"><code>shared-pipeline/cofog/010_COFOG_Protecao_Social.R</code></a> — queries the IMF and OECD SDMX APIs and writes <code>data/protecao_social.csv</code>.</li>
+<li>Upstream data: <a href="../../shared-pipeline/cofog/010_COFOG_Protecao_Social.R"><code>shared-pipeline/cofog/010_COFOG_Protecao_Social.R</code></a> — queries the IMF and OECD SDMX APIs and the CEPALSTAT API and writes <code>data/protecao_social.csv</code>.</li>
 <li>Plotting: <a href="plot.R"><code>plot.R</code></a> — reads <code>data/</code> and writes <code>fig-en.png</code>, <code>fig-pt.png</code> and <code>thumbnail.png</code>.</li>
 </ul>
 </section>
 <section id="reproducibility" class="level2">
 <h2 class="anchored" data-anchor-id="reproducibility">Reproducibility</h2>
 <p><strong>Tier: A</strong></p>
-<p>This pipeline uses only public data from the IMF and OECD APIs, with no credential. The CSV in <code>data/</code> is enough to redraw the figure.</p>
+<p>This pipeline uses only public data from the IMF, OECD and ECLAC APIs, with no credential. The CSV in <code>data/</code> is enough to redraw the figure.</p>
 
 
 </section>
